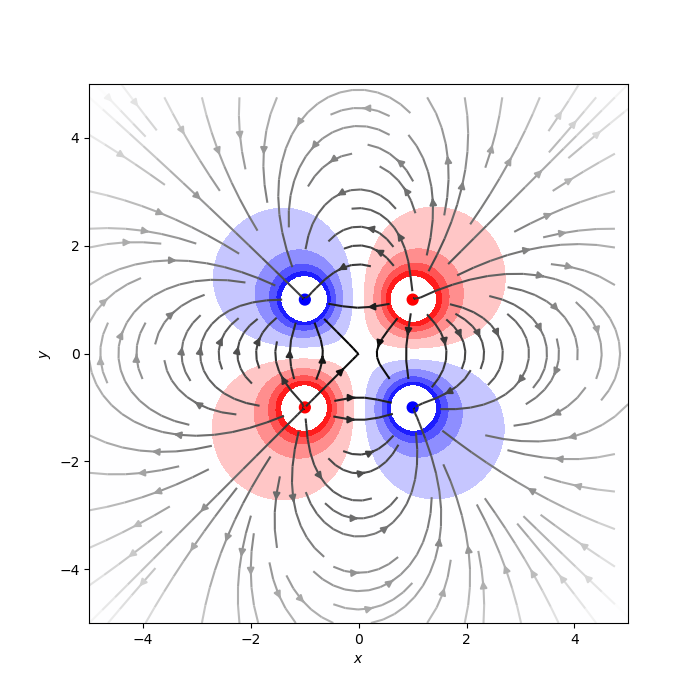
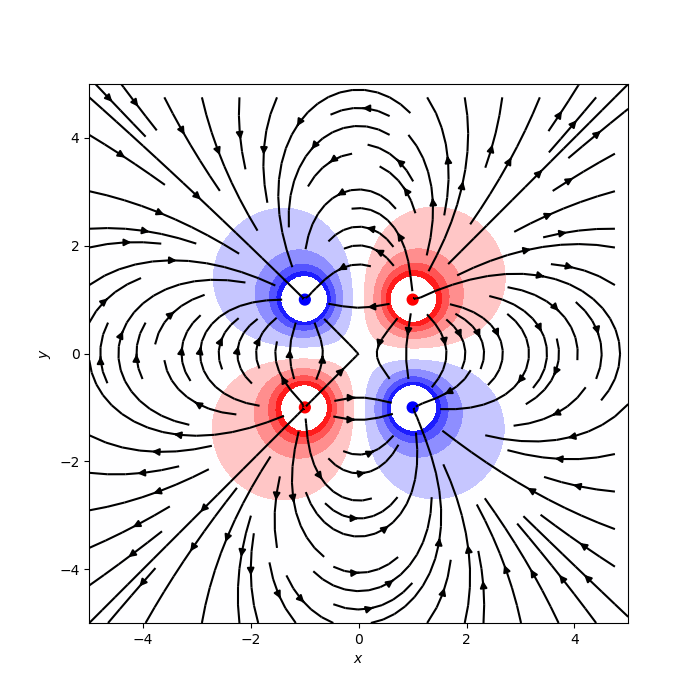
EBFieldSolver

diff --git a/src/MagneticField.py b/src/MagneticField.py
@@ -15,13 +15,21 @@ class Conductor:
 
     def body(self):
         if self.I == 0:
+            I_direction = 'o'
             I_color = 'black'
+            size = self.R * 0
         elif self.I < 0:
-            I_color = 'blue'
+            I_direction = 'o'
+            I_color = 'black'
+            size = self.R * 50
         else:
-            I_color = 'red'
+            I_direction = 'x'
+            I_color = 'black'
+            size = self.R * 400
 
-        return plt.Circle(self.r0, self.R, color=I_color)
+        circle_contents = [self.r0[0], self.r0[1], size, I_color, I_direction]
+        return plt.Circle(self.r0, self.R, edgecolor=I_color, facecolor='None'), circle_contents
+
 
     def compute_magnetic_field(self, x, y):
         mag = self.const * (self.I / np.hypot(x - self.r0[0], y - self.r0[1]))
@@ -54,13 +62,13 @@ conductors = []
 # conductors.append(Conductor(1.0, [0.0, 0.0]))
 
 # conductor loop
-# conductors.append(Conductor(1.0, [0.0, 2.0]))
-# conductors.append(Conductor(-1.0, [0.0, -2.0]))
+conductors.append(Conductor(-1.0, [0.0, 2.0]))
+conductors.append(Conductor(1.0, [0.0, -2.0]))
 
 # coil
-for i in np.linspace(-5, 5, 10):
-    conductors.append(Conductor(-1.0, [i, 5.0]))
-    conductors.append(Conductor(1.0, [i, -5.0]))
+# for i in np.linspace(-5, 5, 10):
+#     conductors.append(Conductor(-1.0, [i, 3.0]))
+#     conductors.append(Conductor(1.0, [i, -3.0]))
 
 nx, ny = 100, 100
 x, y = np.meshgrid(np.linspace(-10, 10, nx), np.linspace(-10, 10, ny))
@@ -74,10 +82,12 @@ ax.set_aspect('equal')
 Bx, By = compute_total_field(x, y, conductors)
 # Bmax = np.hypot(Bx, By)
 # ax.quiver(x, y, z, Bx, By, Bz, color='b', length=1, normalize=True)
-ax.streamplot(x, y, Bx, By, zorder=1, color=-np.hypot(x, y), cmap='binary')
+
+ax.streamplot(x, y, Bx, By, zorder=1, color=np.log(np.hypot(Bx, By)), cmap='cool', density=2)
 total_bodies = compute_bodies(conductors)
 for body in total_bodies:
-    ax.add_patch(body)
+    ax.add_patch(body[0])
+    ax.scatter(body[1][0], body[1][1], body[1][2], body[1][3], body[1][4])
 
 plt.savefig('b_field.png')
 plt.show()

diff --git a/src/ElectricField.py b/src/ElectricField.py
@@ -44,12 +44,13 @@ charges = []
 #     charges.append(PointCharge(-10.0, [1.0, i]))
 
 # dipole charge
-# charges.append(PointCharge(1.0, [-1.0, -1.0]))
-# charges.append(PointCharge(-2.0, [3.0, 3.0]))
+# charges.append(PointCharge(1.0, [0.0, -1.0]))
+# charges.append(PointCharge(-1.0, [0.0, 1.0]))
 
 # triple charge
 # a = 4.0
-# charges.append(PointCharge(1.0, [0.0, 0.0]))
+# charges.append(PointCharge(-1.0, [0.0, 0.0]))
+# charges.append(PointCharge(-1.0, [0.0, 0.0]))
 # charges.append(PointCharge(1.0, [a, 0.0]))
 # charges.append(PointCharge(-1.0, [0.0, a]))
 
@@ -112,7 +113,7 @@ ax.set_aspect('equal')
 Ex, Ey = compute_total_field(x, y, charges)
 # norm_field = norm_total_field(x, y, charges)
 # ax.quiver(x, y, field_x / norm_field, field_y / norm_field, color='black', scale=25)
-ax.streamplot(x, y, Ex, Ey, color=-np.hypot(x, y), cmap='binary')
+ax.streamplot(x, y, Ex, Ey, color='black')
 
 total_potentials = compute_total_potentials(x, y, charges)
 z = np.linspace(np.min(total_potentials) / 10, np.max(total_potentials) / 10, 10)
